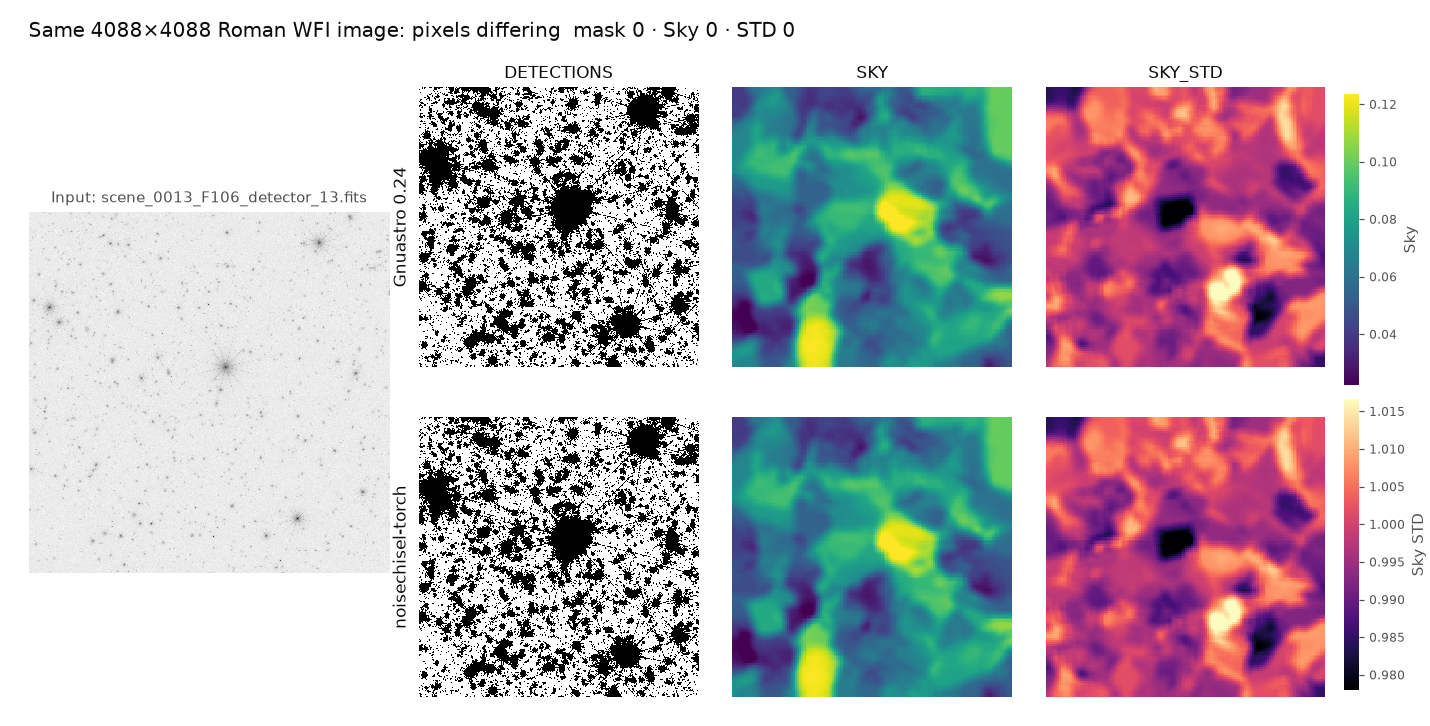
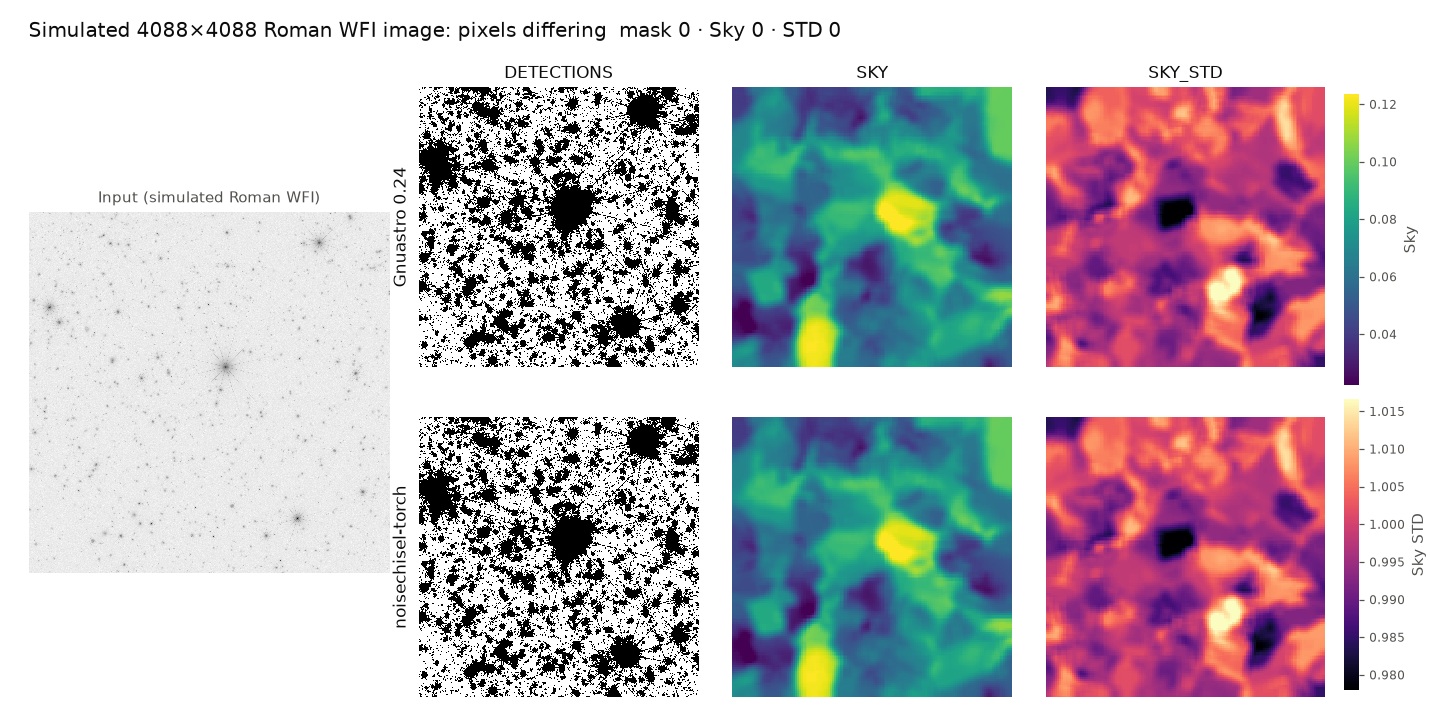
Rerun thread scaling (1-14 threads, 4 runs); CPU vs GPU chart from the scaling data at 10 threads

Changed region(s): [[0.0308, 0.0303, 0.5846, 0.0606], [0.0615, 0.2424, 0.2462, 0.303]]

diff --git a/benchmarks/scaling.py b/benchmarks/scaling.py
@@ -3,8 +3,9 @@
 noisechisel-torch on one image.  Both timings include reading the input and
 writing the output FITS file (default options, same HDUs).
 
-    python benchmarks/scaling.py IMAGE.fits --threads 1,2,4,8,14 \
-        --workdir /tmp/nc --csv benchmarks/results/scaling.csv --plot docs/images/scaling.png
+    python benchmarks/scaling.py IMAGE.fits --workdir /tmp/nc \
+        --csv benchmarks/results/scaling.csv --plot docs/images/scaling.png \
+        --comparison-plot docs/images/performance.png --compare-threads 10 --gpu-time 0.664
 """
 from __future__ import annotations
 
@@ -36,67 +37,113 @@ def time_torch(path, hdu, out, n):
     return time.perf_counter() - t0
 
 
-def plot(rows, path, title):
+INK, INK2, GRID = "#0b0b0b", "#52514e", "#e4e3df"
+COLORS = {"Gnuastro 0.24": "#a3a29c", "noisechisel-torch": "#2a78d6"}
+
+
+def _pyplot():
     import matplotlib
     matplotlib.use("Agg")
     import matplotlib.pyplot as plt
+    plt.rcParams.update({"font.size": 10, "text.color": INK, "axes.labelcolor": INK2,
+                         "xtick.color": INK2, "ytick.color": INK2, "axes.edgecolor": GRID})
+    return plt
 
-    ink, ink2, grid = "#0b0b0b", "#52514e", "#e4e3df"
-    colors = {"Gnuastro 0.24": "#a3a29c", "noisechisel-torch": "#2a78d6"}
-    plt.rcParams.update({"font.size": 10, "text.color": ink, "axes.labelcolor": ink2,
-                         "xtick.color": ink2, "ytick.color": ink2, "axes.edgecolor": grid})
-    fig, (a1, a2) = plt.subplots(1, 2, figsize=(11, 3.8), dpi=110)
-    progs = sorted({r["program"] for r in rows}, key=lambda p: p != "Gnuastro 0.24")
-    nmax = max(r["threads"] for r in rows)
-    smax = 1.0
-    for prog in progs:
-        rr = sorted((r for r in rows if r["program"] == prog), key=lambda r: r["threads"])
-        n = np.array([r["threads"] for r in rr])
-        t = np.array([r["time_s"] for r in rr])
-        c = colors.get(prog, "#2a78d6")
-        kw = dict(color=c, lw=2, marker="o", ms=6, mec="white", mew=1.5)
-        dy = 7 if prog == progs[0] else -7      # keep the two end labels apart
-        a1.plot(n, t, **kw)
-        a1.annotate(f"{prog}  {t[-1]:.2f} s", (n[-1], t[-1]), xytext=(6, dy),
-                    textcoords="offset points", va="center", fontsize=9, color=ink)
-        a2.plot(n, t[0] / t, **kw)
-        a2.annotate(f"{prog}  {t[0] / t[-1]:.1f}×", (n[-1], t[0] / t[-1]), xytext=(6, dy),
-                    textcoords="offset points", va="center", fontsize=9, color=ink)
-        smax = max(smax, (t[0] / t).max())
-    ytop = np.ceil(smax + 1.5)
-    a2.plot([1, ytop], [1, ytop], color=ink2, lw=1, ls=(0, (3, 3)))
-    a2.text(ytop - 0.2, ytop - 0.2, "ideal", color=ink2, fontsize=8.5, ha="right", va="top")
-    a2.set_ylim(0, ytop)
-    a1.set_ylim(bottom=0)
-    a1.set_ylabel("seconds per frame (lower is better)")
-    a2.set_ylabel("speed-up vs 1 thread")
-    a1.set_title("Run time", loc="left", fontsize=11)
-    a2.set_title("Scaling", loc="left", fontsize=11)
-    for a in (a1, a2):
-        a.set_xlabel("CPU threads")
-        a.set_xlim(0.5, nmax * 1.55)
-        a.set_xticks(sorted({r["threads"] for r in rows}))
-        a.grid(True, color=grid, lw=0.8)
-        a.set_axisbelow(True)
-        for k in ("top", "right"):
-            a.spines[k].set_visible(False)
-    fig.suptitle(title, x=0.01, ha="left", fontsize=12)
-    fig.text(0.01, 0.01, f"{rows[0].get('machine', '')}. Median of repeated runs, "
-             "including FITS read and write.", fontsize=8.5, color=ink2)
-    fig.subplots_adjust(left=0.06, right=0.98, top=0.83, bottom=0.2, wspace=0.25)
+
+def _save(fig, path):
     os.makedirs(os.path.dirname(path) or ".", exist_ok=True)
     fig.savefig(path, facecolor="white")
+
+
+def _times(rows, prog):
+    rr = sorted((r for r in rows if r["program"] == prog), key=lambda r: r["threads"])
+    return np.array([r["threads"] for r in rr]), np.array([r["time_s"] for r in rr])
+
+
+def plot_scaling(rows, path, title):
+    """Run time vs number of threads, one line per program."""
+    plt = _pyplot()
+    fig, ax = plt.subplots(figsize=(8, 4), dpi=110)
+    progs = sorted({r["program"] for r in rows}, key=lambda p: p != "Gnuastro 0.24")
+    for k, prog in enumerate(progs):
+        n, t = _times(rows, prog)
+        ax.plot(n, t, color=COLORS.get(prog, "#2a78d6"), lw=2, marker="o", ms=6,
+                mec="white", mew=1.5)
+        ax.annotate(f"{prog}  {t[-1]:.2f} s", (n[-1], t[-1]), xytext=(8, 7 if k == 0 else -7),
+                    textcoords="offset points", va="center", fontsize=9, color=INK)
+    nmax = max(r["threads"] for r in rows)
+    ax.set_ylim(bottom=0)
+    ax.set_xlim(0.5, nmax * 1.4)
+    ax.set_xticks(sorted({r["threads"] for r in rows}))
+    ax.set_xlabel("CPU threads")
+    ax.set_ylabel("seconds per frame (lower is better)")
+    ax.grid(True, color=GRID, lw=0.8)
+    ax.set_axisbelow(True)
+    for k in ("top", "right"):
+        ax.spines[k].set_visible(False)
+    ax.set_title(title, loc="left", fontsize=11)
+    fig.text(0.01, 0.01, f"{rows[0].get('machine', '')}. Median of {_nruns(rows)} runs, "
+             "including FITS read and write.", fontsize=8.5, color=INK2)
+    fig.subplots_adjust(left=0.09, right=0.98, top=0.9, bottom=0.2)
+    _save(fig, path)
+
+
+def plot_comparison(rows, path, threads, gpu_time=None, gpu_label="NVIDIA T4 GPU"):
+    """Bars: both programs at ``threads`` CPU threads, plus an optional GPU time."""
+    plt = _pyplot()
+    pick = {r["program"]: r["time_s"] for r in rows if r["threads"] == threads}
+    tg = pick["Gnuastro 0.24"]
+    bars = [(f"Gnuastro 0.24 · CPU, {threads} threads", tg, COLORS["Gnuastro 0.24"]),
+            (f"noisechisel-torch · CPU, {threads} threads", pick["noisechisel-torch"],
+             COLORS["noisechisel-torch"])]
+    if gpu_time:
+        bars.append((f"noisechisel-torch · {gpu_label}", gpu_time, COLORS["noisechisel-torch"]))
+    fig, ax = plt.subplots(figsize=(8.5, 0.9 + 0.65 * len(bars)), dpi=110)
+    y = np.arange(len(bars))[::-1]
+    vals = [b[1] for b in bars]
+    ax.barh(y, vals, color=[b[2] for b in bars], height=0.6, edgecolor="white", linewidth=2)
+    for yi, v in zip(y, vals):
+        txt = f"{v:.2f} s" + ("" if v == tg else f"  ({tg / v:.1f}× faster)")
+        ax.text(v + max(vals) * 0.015, yi, txt, va="center", fontsize=9.5, color=INK)
+    ax.set_yticks(y, [b[0] for b in bars], fontsize=9.5)
+    ax.set_ylim(-0.6, len(bars) - 0.4)
+    ax.set_xlim(0, max(vals) * 1.45)
+    ax.set_xlabel("seconds per 4088×4088 frame (lower is better)", fontsize=9)
+    fig.suptitle(f"CPU ({threads} threads) vs GPU, simulated Roman WFI frame (4088×4088)",
+                 x=0.01, ha="left", fontsize=11)
+    ax.xaxis.grid(True, color=GRID, lw=0.8)
+    ax.set_axisbelow(True)
+    for k in ("top", "right", "left"):
+        ax.spines[k].set_visible(False)
+    ax.tick_params(axis="y", length=0)
+    note = (f"CPU: {rows[0].get('machine', '')}, median of {_nruns(rows)} runs incl. FITS I/O "
+            "(benchmarks/scaling.py).")
+    if gpu_time:
+        note += f"\nGPU: {gpu_label} on Google Colab with CuPy, computation only."
+    fig.text(0.01, 0.02, note, fontsize=8.5, color=INK2, va="bottom")
+    fig.subplots_adjust(left=0.33, right=0.98, top=0.85, bottom=0.36)
+    _save(fig, path)
+
+
+def _nruns(rows):
+    return len(str(rows[0].get("runs", "")).split()) or "repeated"
 
 
 def main():
     ap = argparse.ArgumentParser(description=__doc__, formatter_class=argparse.RawTextHelpFormatter)
     ap.add_argument("image")
     ap.add_argument("--hdu", default="0")
-    ap.add_argument("--threads", default=None, help="comma list (default: 1,2,4,... up to all cores)")
-    ap.add_argument("--repeat", type=int, default=3)
+    ap.add_argument("--threads", default=None, help="comma list (default: 1..all cores)")
+    ap.add_argument("--repeat", type=int, default=4)
     ap.add_argument("--workdir", default="nc_scaling", help="where the output FITS files go")
     ap.add_argument("--csv", default="scaling.csv")
-    ap.add_argument("--plot", default=None)
+    ap.add_argument("--plot", default=None, help="time vs threads figure")
+    ap.add_argument("--comparison-plot", default=None,
+                    help="bar chart of both programs at --compare-threads (+ --gpu-time)")
+    ap.add_argument("--compare-threads", type=int, default=10)
+    ap.add_argument("--gpu-time", type=float, default=None,
+                    help="GPU seconds per frame to add to the bar chart (e.g. from the Colab notebook)")
+    ap.add_argument("--gpu-label", default="NVIDIA T4 GPU")
     ap.add_argument("--from-csv", action="store_true", help="only re-plot an existing --csv")
     a = ap.parse_args()
 
@@ -107,7 +154,7 @@ def main():
     else:
         ncpu = os.cpu_count()
         threads = ([int(x) for x in a.threads.split(",")] if a.threads else
-                   sorted({1, 2, 4, 8, ncpu} | set(range(2, ncpu + 1, 2))))
+                   list(range(1, ncpu + 1)))
         os.makedirs(a.workdir, exist_ok=True)
         hdu = int(a.hdu) if a.hdu.isdigit() else a.hdu
         machine = platform.processor() or platform.machine()
@@ -121,6 +168,7 @@ def main():
                 out = os.path.join(a.workdir, "out.fits")
                 ts = [fn(a.image, hdu, out, n) for _ in range(a.repeat)]
                 rows.append({"program": prog, "threads": n, "time_s": float(np.median(ts)),
+                             "mean_s": float(np.mean(ts)),
                              "runs": " ".join(f"{t:.3f}" for t in ts), "machine": machine,
                              "torch": torch.__version__})
                 print(f"{prog:18s} N={n:2d}  {np.median(ts):6.2f} s  ({rows[-1]['runs']})", flush=True)
@@ -131,7 +179,9 @@ def main():
             w.writeheader()
             w.writerows(rows)
     if a.plot:
-        plot(rows, a.plot, f"Thread scaling on a 4088×4088 Roman WFI frame — {os.path.basename(a.image)}")
+        plot_scaling(rows, a.plot, "Run time vs CPU threads, simulated Roman WFI frame (4088×4088)")
+    if a.comparison_plot:
+        plot_comparison(rows, a.comparison_plot, a.compare_threads, a.gpu_time, a.gpu_label)
 
 
 if __name__ == "__main__":

diff --git a/benchmarks/readme_figures.py b/benchmarks/readme_figures.py
@@ -1,29 +1,23 @@
 #!/usr/bin/env python
-"""Make the README figures: Gnuastro vs noisechisel-torch outputs on one image
-and the CPU timings (the Colab GPU numbers are from the notebook benchmark).
+"""Make the README comparison figure: Gnuastro vs noisechisel-torch outputs on
+one image (the timing figures are made by ``benchmarks/scaling.py``).
 
     python benchmarks/readme_figures.py IMAGE.fits [docs/images/]
 """
-import os, sys, tempfile, subprocess, time, numpy as np, torch
+import os, sys, tempfile, subprocess, numpy as np
 from astropy.io import fits
 from noisechisel_torch import NoiseChisel, read_image
 IMG=sys.argv[1]
 GNU=os.path.join(tempfile.mkdtemp(),"gnu.fits")
 OUT=sys.argv[2] if len(sys.argv)>2 else "docs/images/"
-tg=[]
-for i in range(3):
-    t0=time.perf_counter(); subprocess.run(["astnoisechisel",IMG,"-h0","-o"+GNU,"--quiet"],check=True); tg.append(time.perf_counter()-t0)
+subprocess.run(["astnoisechisel",IMG,"-h0","-o"+GNU,"--quiet"],check=True)
 with fits.open(GNU) as hl:
     dg=hl["DETECTIONS"].data.astype(bool); sg=hl["SKY"].data; stg=hl["SKY_STD"].data
 img,_=read_image(IMG,0)
-nc=NoiseChisel(device="cpu"); nc(img)
-tt=[]
-for i in range(3):
-    t0=time.perf_counter(); r=nc(img); tt.append(time.perf_counter()-t0)
+r=NoiseChisel(device="cpu")(img)
 dt=r.detections.cpu().numpy(); st=r.sky_image().cpu().numpy(); stdt=r.std_image().cpu().numpy()
-print("gnu",tg,"torch",tt,"threads",torch.get_num_threads())
 print("diff", (dg!=dt).sum(), (sg!=st).sum(), (stg!=stdt).sum(), dg.mean())
-d=dict(img=img,dg=dg,sg=sg,stg=stg,dt=dt,st=st,stdt=stdt,tg=tg,tt=tt)
+d=dict(img=img,dg=dg,sg=sg,stg=stg,dt=dt,st=st,stdt=stdt)
 
 import matplotlib
 matplotlib.use("Agg")
@@ -43,7 +37,7 @@ gs=GridSpec(2,4,figure=fig,width_ratios=[1.25,1,1,1],wspace=0.08,hspace=0.18,
 ax=fig.add_subplot(gs[:,0])
 lo,hi=np.nanpercentile(img,[1,99.7]); v=np.arcsinh((img-lo)/(0.02*(hi-lo)))
 ax.imshow(v,origin="lower",cmap="gray_r",interpolation="nearest"); ax.set_axis_off()
-ax.set_title("Input: "+os.path.basename(IMG),fontsize=10,color=INK2)
+ax.set_title("Input (simulated Roman WFI)",fontsize=10,color=INK2)
 sky_lim=np.nanpercentile(d["sg"],[0.5,99.5]); std_lim=np.nanpercentile(d["stg"],[0.5,99.5])
 rows=[("Gnuastro 0.24","dg","sg","stg"),("noisechisel-torch","dt","st","stdt")]
 ims={}
@@ -61,29 +55,6 @@ nd=[int((d[a]!=d[b]).sum()) for a,b in [("dg","dt"),("sg","st"),("stg","stdt")]]
 cax1=fig.add_axes([0.94,0.47,0.01,0.40]); fig.colorbar(ims[1],cax=cax1).set_label("Sky",color=INK2)
 cax2=fig.add_axes([0.94,0.05,0.01,0.40]); fig.colorbar(ims[2],cax=cax2).set_label("Sky STD",color=INK2)
 for cx in (cax1,cax2): cx.tick_params(labelsize=8); [sp.set_visible(False) for sp in cx.spines.values()]
-fig.suptitle(f"Same 4088×4088 Roman WFI image: pixels differing  mask {nd[0]} · Sky {nd[1]} · STD {nd[2]}",
+fig.suptitle(f"Simulated 4088×4088 Roman WFI image: pixels differing  mask {nd[0]} · Sky {nd[1]} · STD {nd[2]}",
              fontsize=13,x=0.02,ha="left",y=0.97)
 fig.savefig(OUT+"comparison.png",facecolor="white"); plt.close(fig)
-
-# ---- figure 2: performance (seconds per 4088x4088 frame)
-tg=float(np.median(d["tg"])); tt=float(np.median(d["tt"]))
-T4=0.664   # CUDA + CuPy on a Colab T4 (notebooks/colab_gpu_benchmark.ipynb)
-bars=[("Gnuastro 0.24 · CPU, 14 threads",tg,GRAY),
-      ("noisechisel-torch · CPU, 10 threads",tt,BLUE),
-      ("noisechisel-torch · NVIDIA T4 GPU",T4,BLUE)]
-fig,ax=plt.subplots(figsize=(8.5,2.9),dpi=110)
-names=[b[0] for b in bars][::-1]; vals=[b[1] for b in bars][::-1]; cols=[b[2] for b in bars][::-1]
-y=np.arange(len(bars))
-ax.barh(y,vals,color=cols,height=0.6,edgecolor="white",linewidth=2)
-for yi,v in zip(y,vals):
-    sp=tg/v; txt=f"{v:.2f} s" + ("" if abs(sp-1)<1e-9 else f"  ({sp:.1f}× faster)")
-    ax.text(v+max(vals)*0.015,yi,txt,va="center",fontsize=9.5,color=INK)
-ax.set_yticks(y,names,fontsize=9.5); ax.set_ylim(-0.6,len(bars)-0.4); ax.set_xlim(0,max(vals)*1.45)
-ax.set_xlabel("seconds per 4088×4088 frame (lower is better)",fontsize=9)
-ax.set_title("Run time, NoiseChisel default options",fontsize=11,loc="left",color=INK)
-ax.xaxis.grid(True,color=GRID,lw=0.8); ax.set_axisbelow(True)
-for k in ("top","right","left"): ax.spines[k].set_visible(False)
-ax.tick_params(axis="y",length=0)
-fig.text(0.01,0.02,"CPU: Apple M3 Max, median of 3 runs. GPU: Google Colab T4 with CuPy. All outputs bit-identical.",fontsize=8.5,color=INK2)
-fig.subplots_adjust(left=0.33,right=0.98,top=0.87,bottom=0.27)
-fig.savefig(OUT+"performance.png",facecolor="white"); plt.close(fig)
